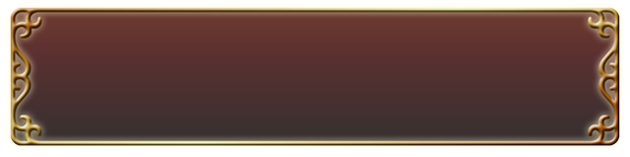
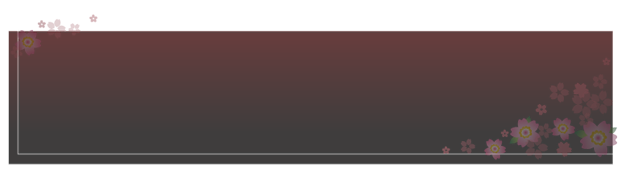
change dialog background

Changed region(s): [[0.0, 0.0255, 0.9952, 0.9427], [0.8444, 0.586, 0.8746, 0.6624]]

diff --git a/rpg-game/src/main/java/billy/rpg/game/screen/DialogScreen.java b/rpg-game/src/main/java/billy/rpg/game/screen/DialogScreen.java
@@ -253,7 +253,7 @@ public class DialogScreen extends BaseScreen {
                 g.drawString(msgContent.content,
                         (dlgBgLeft + 20 + g.getFontMetrics(GameConstant.FONT_DLG_MSG).stringWidth("测"))
                                 + g.getFontMetrics(GameConstant.FONT_DLG_MSG).stringWidth(msgShown),
-                        dlgBgTop + 40 + (newline ? fontHeight : 0));
+                        dlgBgTop + 60 + (newline ? fontHeight : 0));
                 msgShown += msgContent.content;
             }
         }
